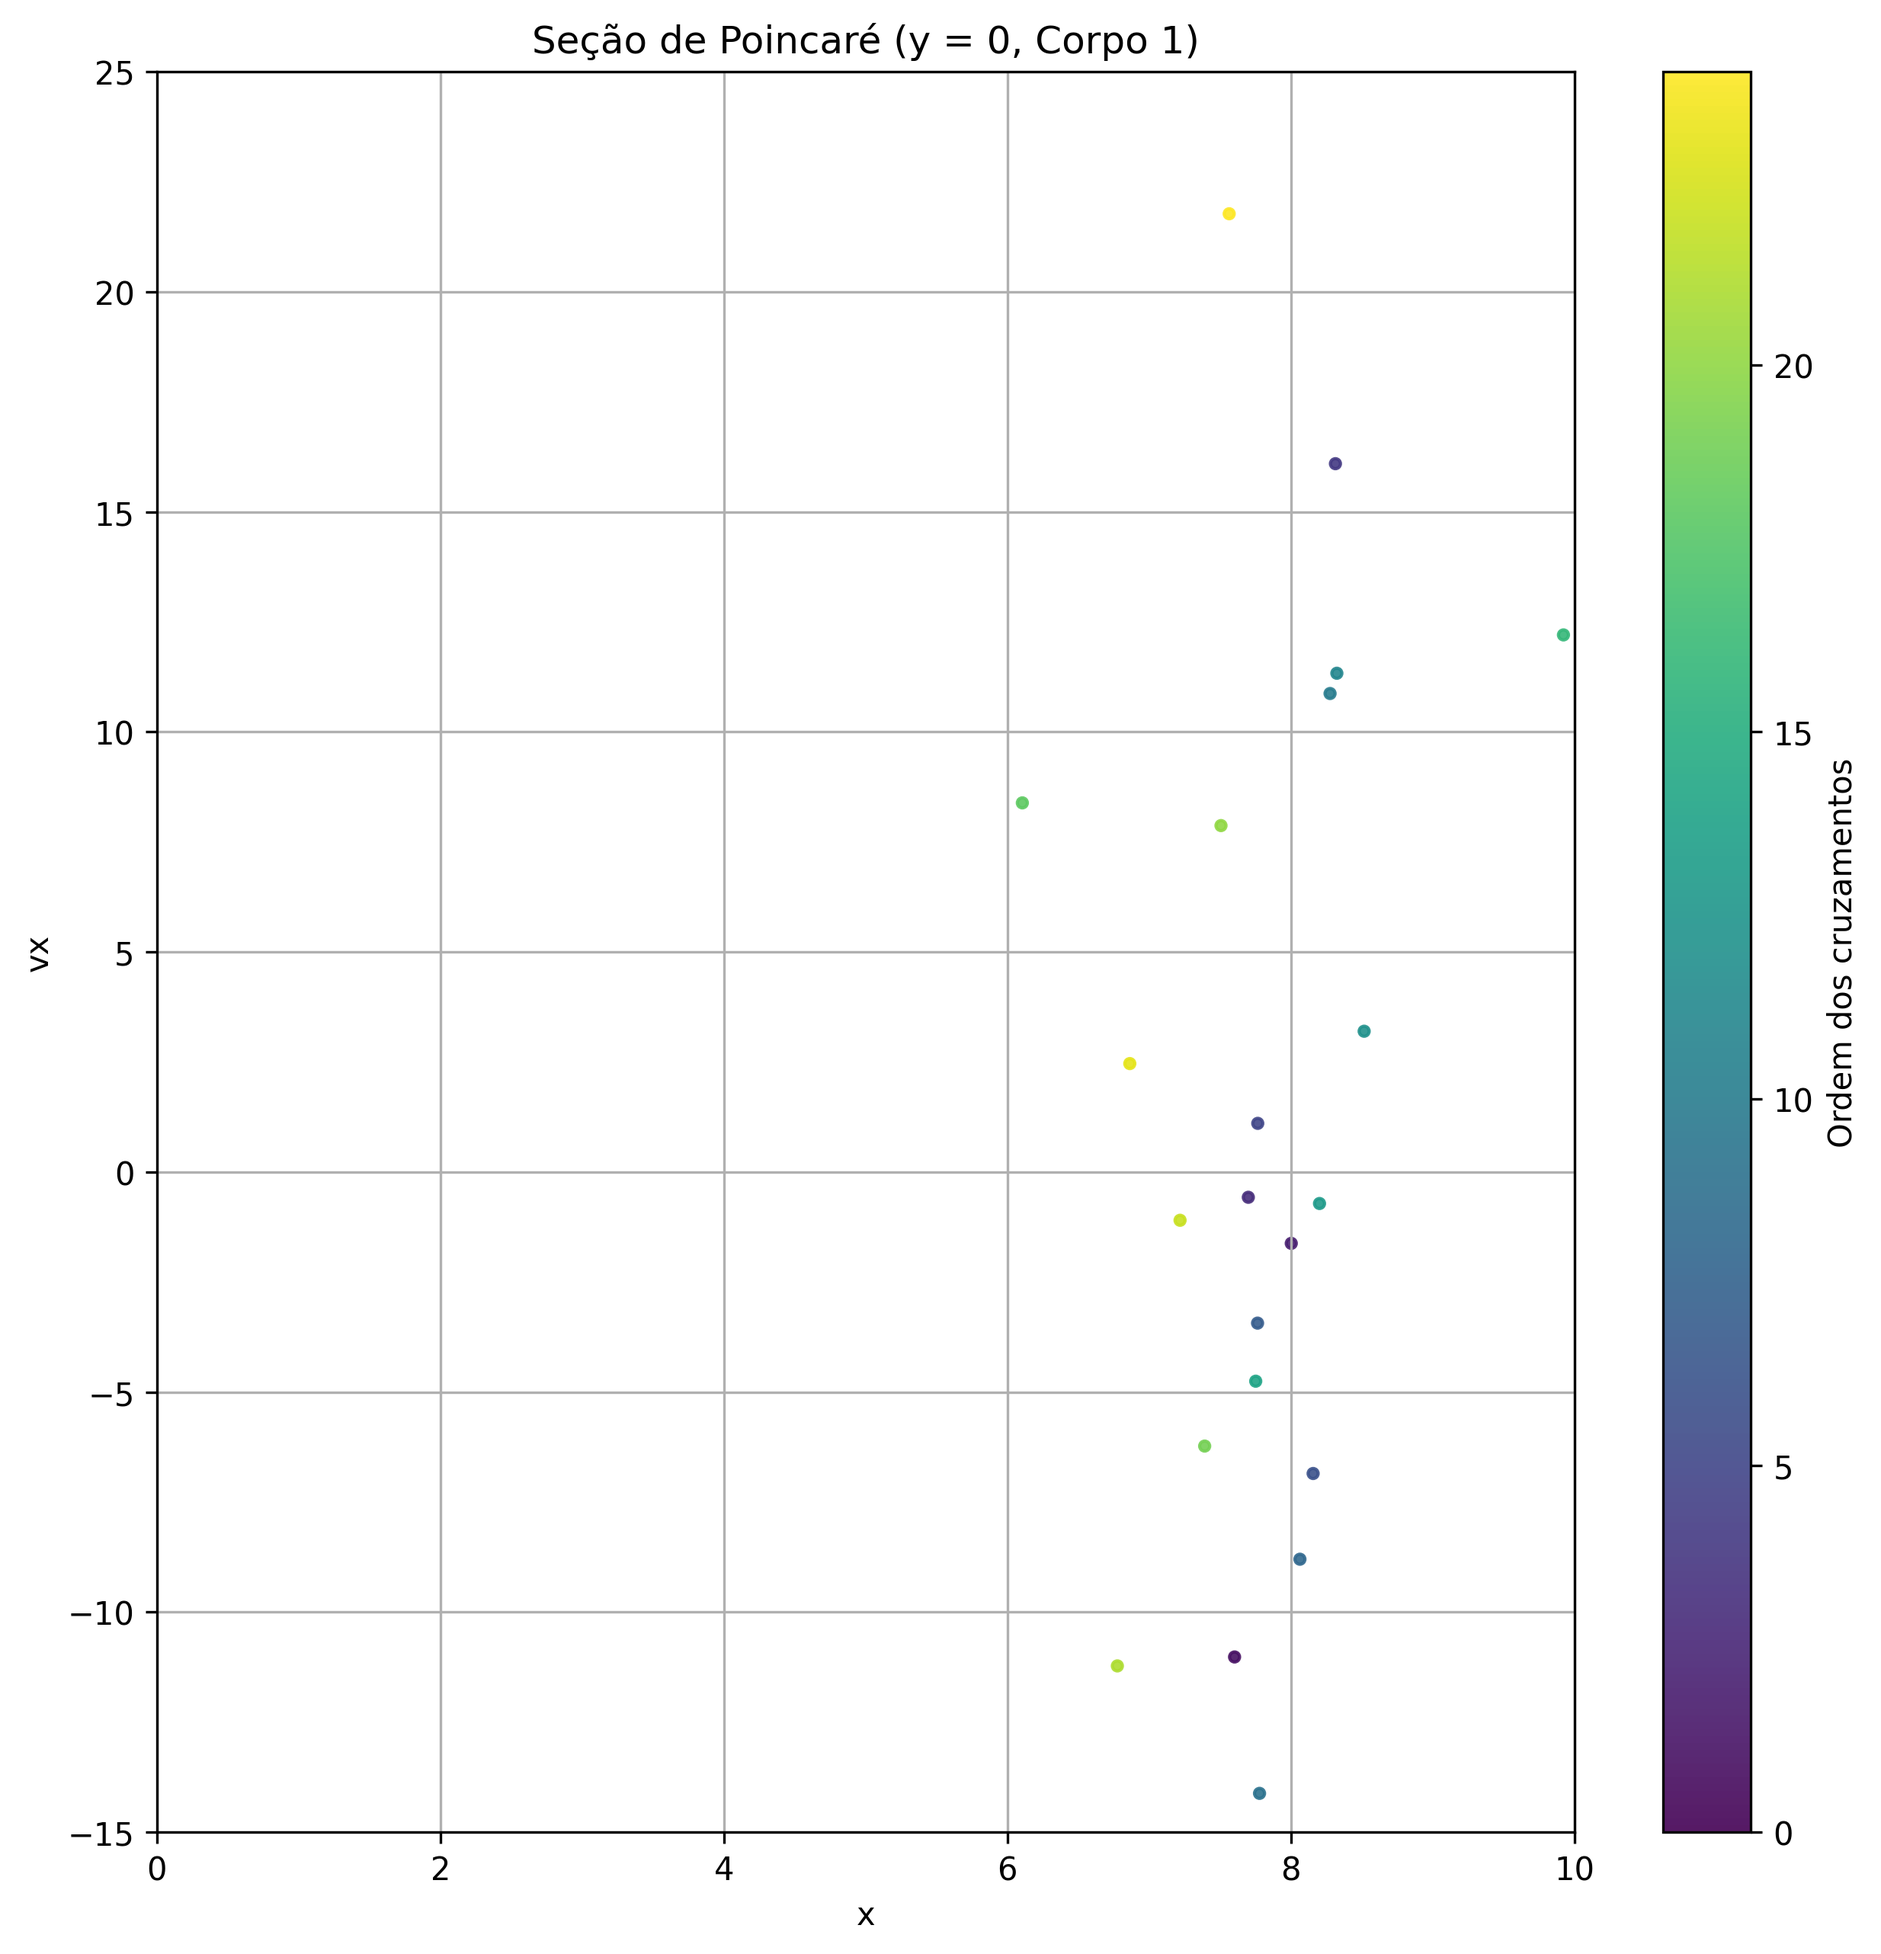
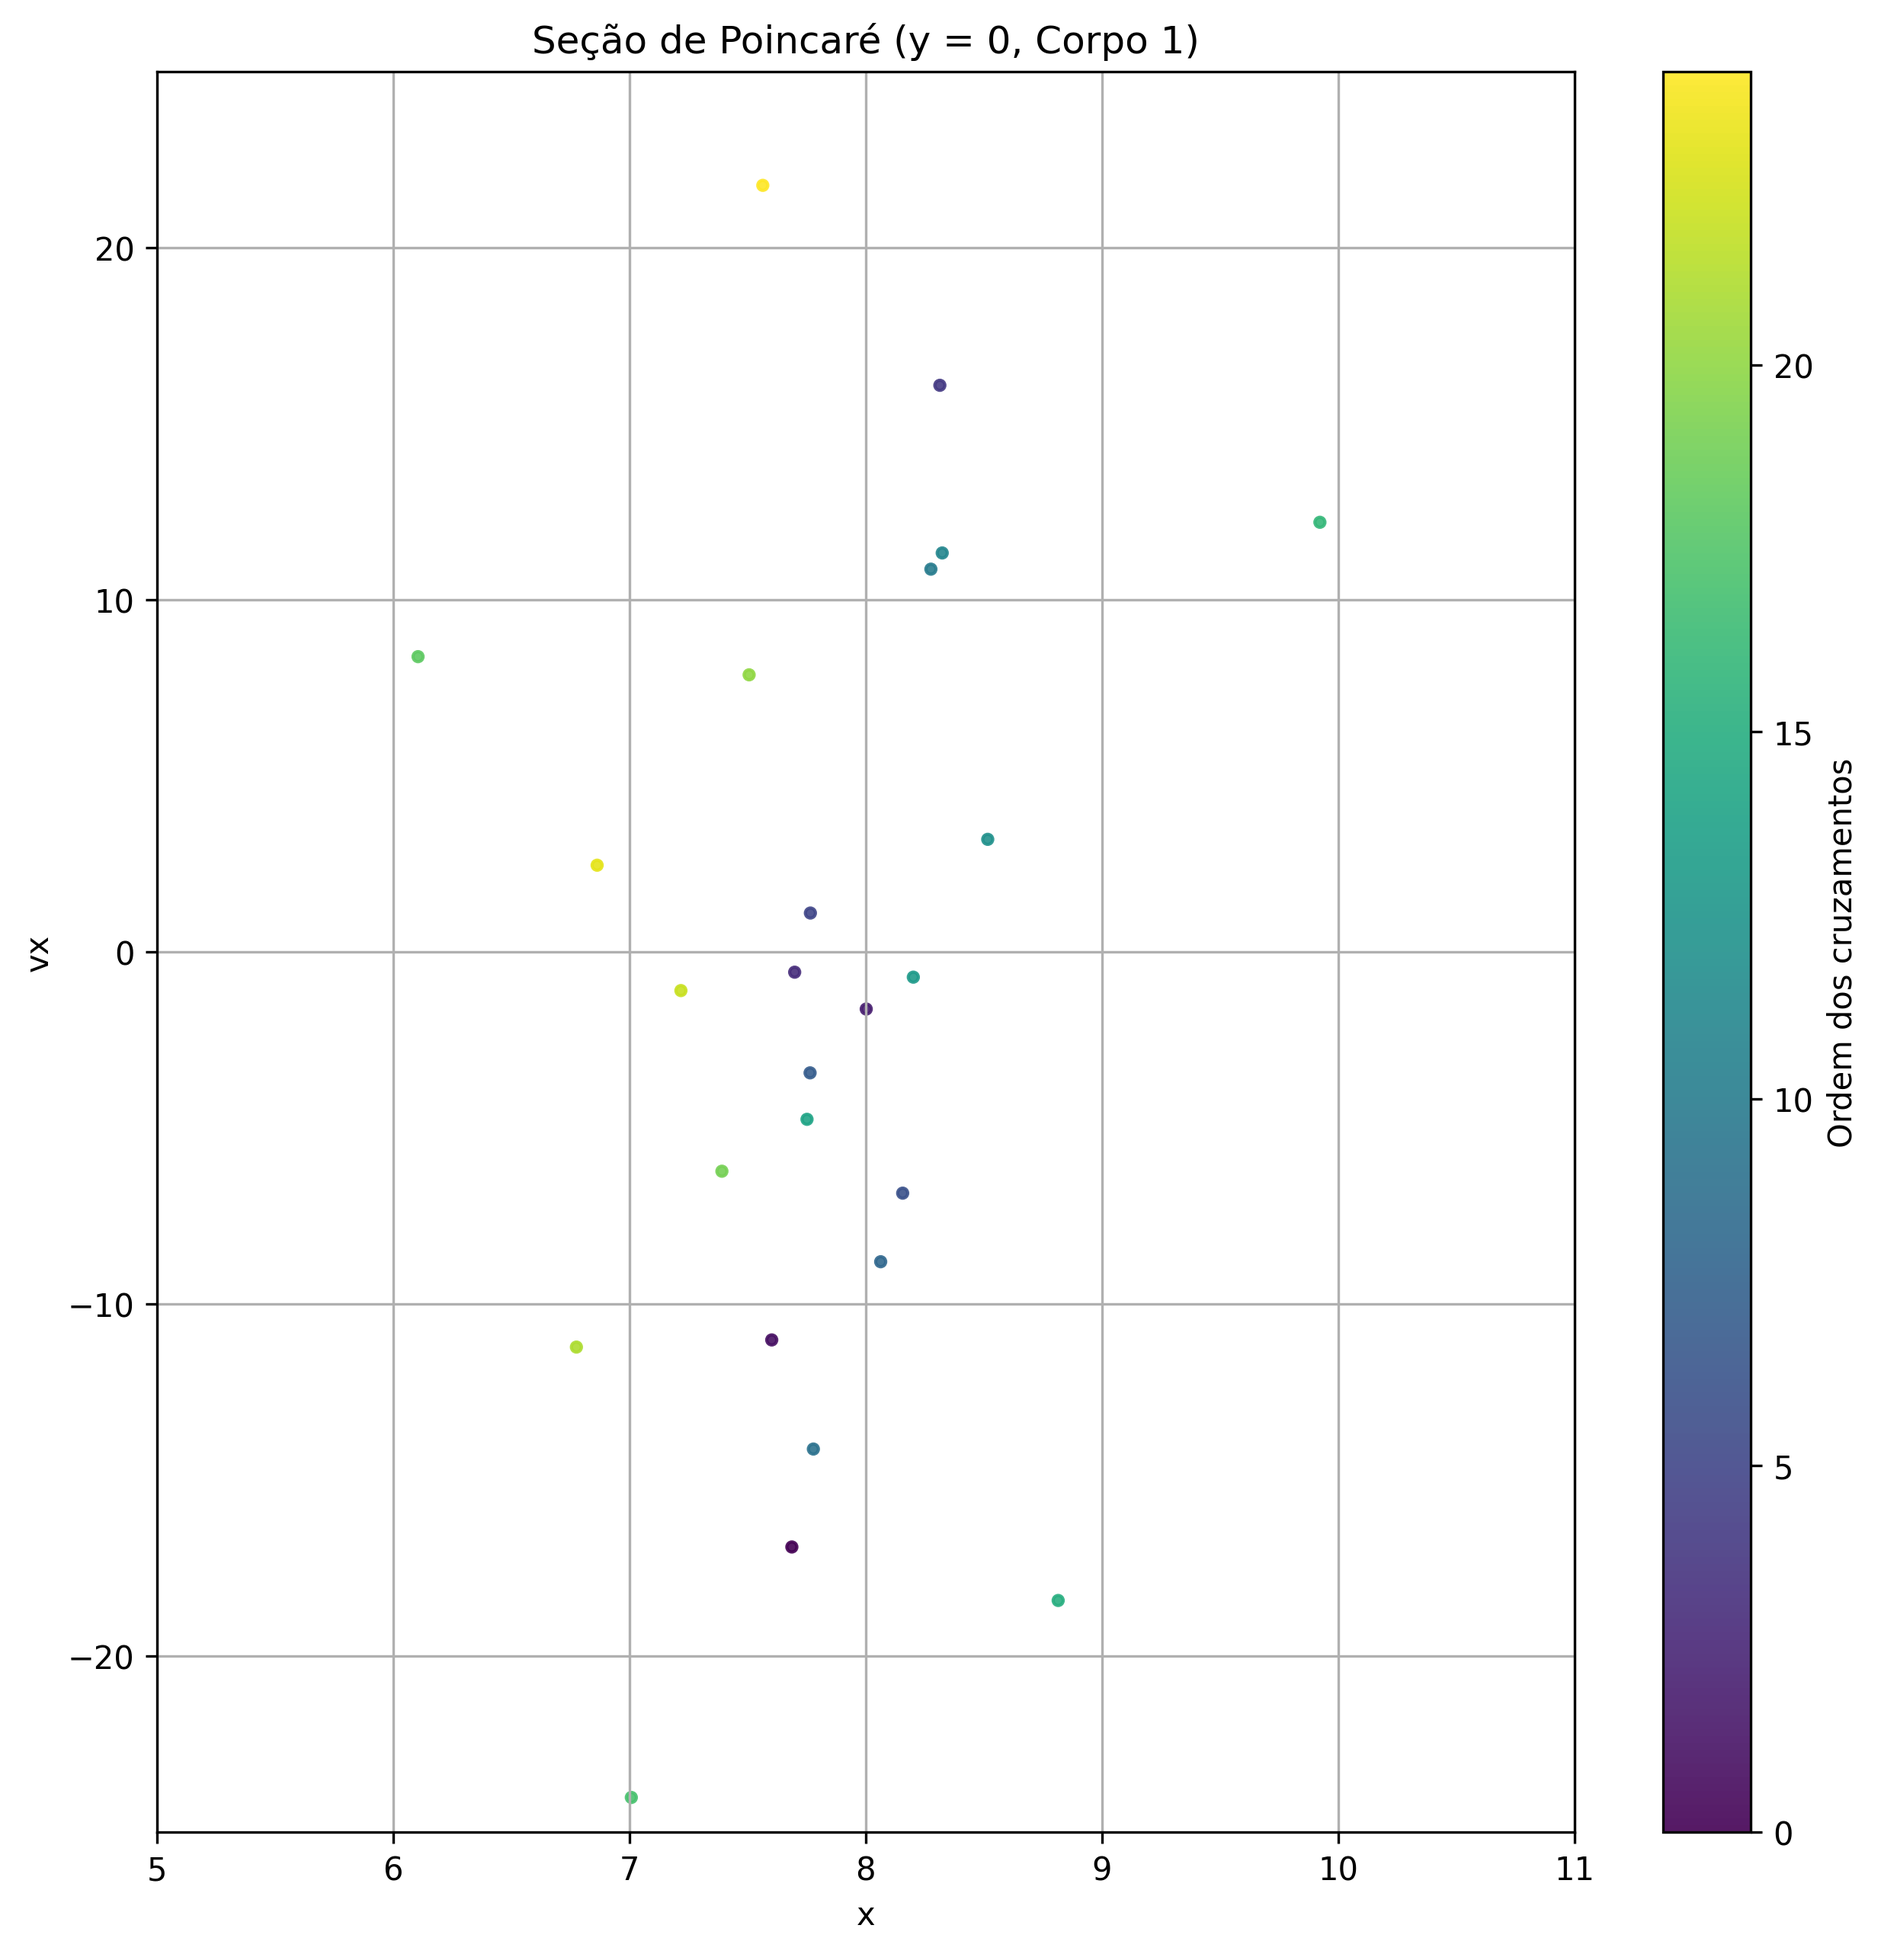
mais poincares

diff --git a/poincare_X.py b/poincare_X.py
@@ -2,12 +2,9 @@ import numpy as np
 import matplotlib.pyplot as plt
 from scipy.integrate import solve_ivp
 
-# Constante gravitacional fictícia (ajustada para evitar números extremamente pequenos)
+# Constante gravitacional fictícia
 G = 6.67
-y_target = -10.0
-
-def on_click(event):
-    print(f"Você clicou em: x = {event.xdata}, y = {event.ydata}")
+x_target = 8  # Valor de x para a análise
 
 # Função que define o sistema de equações diferenciais
 def three_body(t, y, m1, m2, m3):
@@ -38,15 +35,14 @@ y0 = [
     -1.3, -1.0,  # Posição do corpo 1
      1.3, -1.0,  # Posição do corpo 2
      0.0, 1.59,  # Posição do corpo 3
-     1.3, 1.3,  # Velocidade do corpo 1
-    -1.5, -1.7, # Velocidade do corpo 2
-     1.6, -1.3    # Velocidade do corpo 3
+     1.3, 1.3,   # Velocidade do corpo 1
+    -1.5, -1.7,  # Velocidade do corpo 2
+     1.6, -1.3   # Velocidade do corpo 3
 ]
 
-
 # Intervalo de tempo e pontos de avaliação
-t_span = (0, 50)  # Por exemplo, aumente de 20 para 100 ou mais.
-t_eval = np.linspace(*t_span, 3000)  # Mais pontos para análise precisa.
+t_span = (0, 50)
+t_eval = np.linspace(*t_span, 3000)
 
 # Resolver o sistema
 sol = solve_ivp(three_body, t_span, y0, args=(m1, m2, m3), t_eval=t_eval, rtol=1e-9, atol=1e-9)
@@ -54,31 +50,32 @@ sol = solve_ivp(three_body, t_span, y0, args=(m1, m2, m3), t_eval=t_eval, rtol=1
 # Extrair dados
 r1, v1 = sol.y[:2], sol.y[6:8]
 
-# Identificar cruzamentos com o plano y=0
+# Identificar cruzamentos com o plano x=x_target
 crossings = []
-tolerance = 0.05  # Tolerância em torno de y_target
+tolerance = 0.05  # Tolerância em torno de x_target
 
 for i in range(1, len(t_eval)):
-    # Verificar se y cruza y_target com tolerância
-    if (r1[1, i-1] - y_target) * (r1[1, i] - y_target) < 0:
+    # Verificar se x cruza x_target com tolerância
+    if (r1[0, i-1] - x_target) * (r1[0, i] - x_target) < 0:
         # Interpolação linear para encontrar o cruzamento
-        x_cross = r1[0, i-1] + (r1[0, i] - r1[0, i-1]) * (y_target - r1[1, i-1]) / (r1[1, i] - r1[1, i-1])
-        vx_cross = v1[0, i-1] + (v1[0, i] - v1[0, i-1]) * (y_target - r1[1, i-1]) / (r1[1, i] - r1[1, i-1])
-        crossings.append((x_cross, vx_cross))
+        y_cross = r1[1, i-1] + (r1[1, i] - r1[1, i-1]) * (x_target - r1[0, i-1]) / (r1[0, i] - r1[0, i-1])
+        vy_cross = v1[1, i-1] + (v1[1, i] - v1[1, i-1]) * (x_target - r1[0, i-1]) / (r1[0, i] - r1[0, i-1])
+        crossings.append((y_cross, vy_cross))
 
 # Separar as coordenadas dos cruzamentos
-x_cross, vx_cross = zip(*crossings)
+y_cross, vy_cross = zip(*crossings)
 
 # Plotar a seção de Poincaré
 plt.figure(figsize=(10, 10))
-scatter = plt.scatter(x_cross, vx_cross, c=range(len(x_cross)), cmap='viridis', s=10, alpha=0.9)
+scatter = plt.scatter(y_cross, vy_cross, c=range(len(y_cross)), cmap='viridis', s=10, alpha=0.9)
 plt.colorbar(scatter, label='Ordem dos cruzamentos')
-plt.title("Seção de Poincaré (y = 0, Corpo 1)")
-plt.xlabel("x")
-plt.ylabel("vx")
-plt.xlim(0, 10) 
-plt.ylim(-15, 25)
+plt.title("Seção de Poincaré (x = {:.1f}, Corpo 1)".format(x_target))
+
+plt.xlabel("y")
+plt.ylabel("vy")
+plt.xlim(-15, -5)
+plt.ylim(-30, 30)
 plt.grid(True)
 
-plt.savefig("poincare_section_y_target-10.png", dpi=300, bbox_inches='tight')
+plt.savefig("poincare_section_x_target+8.png", dpi=300, bbox_inches='tight')
 plt.show()

diff --git a/poincare_y.py b/poincare_y.py
@@ -1,0 +1,85 @@
+import numpy as np
+import matplotlib.pyplot as plt
+from scipy.integrate import solve_ivp
+
+# Constante gravitacional fictícia (ajustada para evitar números extremamente pequenos)
+G = 6.67
+y_target = -10.0
+
+def on_click(event):
+    print(f"Você clicou em: x = {event.xdata}, y = {event.ydata}")
+
+# Função que define o sistema de equações diferenciais
+def three_body(t, y, m1, m2, m3):
+    r1 = y[:2]
+    r2 = y[2:4]
+    r3 = y[4:6]
+    v1 = y[6:8]
+    v2 = y[8:10]
+    v3 = y[10:12]
+
+    # Distâncias entre os corpos
+    r12 = np.linalg.norm(r1 - r2)
+    r13 = np.linalg.norm(r1 - r3)
+    r23 = np.linalg.norm(r2 - r3)
+
+    # Acelerações devido à gravidade
+    a1 = -G * m2 * (r1 - r2) / r12**3 - G * m3 * (r1 - r3) / r13**3
+    a2 = -G * m1 * (r2 - r1) / r12**3 - G * m3 * (r2 - r3) / r23**3
+    a3 = -G * m1 * (r3 - r1) / r13**3 - G * m2 * (r3 - r2) / r23**3
+
+    return np.concatenate((v1, v2, v3, a1, a2, a3))
+
+# Parâmetros dos corpos (massas fictícias)
+m1, m2, m3 = 130, 130, 130
+
+# Condições iniciais
+y0 = [
+    -1.3, -1.0,  # Posição do corpo 1
+     1.3, -1.0,  # Posição do corpo 2
+     0.0, 1.59,  # Posição do corpo 3
+     1.3, 1.3,  # Velocidade do corpo 1
+    -1.5, -1.7, # Velocidade do corpo 2
+     1.6, -1.3    # Velocidade do corpo 3
+]
+
+
+# Intervalo de tempo e pontos de avaliação
+t_span = (0, 50)  # Por exemplo, aumente de 20 para 100 ou mais.
+t_eval = np.linspace(*t_span, 3000)  # Mais pontos para análise precisa.
+
+# Resolver o sistema
+sol = solve_ivp(three_body, t_span, y0, args=(m1, m2, m3), t_eval=t_eval, rtol=1e-9, atol=1e-9)
+
+# Extrair dados
+r1, v1 = sol.y[:2], sol.y[6:8]
+
+# Identificar cruzamentos com o plano y=0
+crossings = []
+tolerance = 0.05  # Tolerância em torno de y_target
+
+for i in range(1, len(t_eval)):
+    # Verificar se y cruza y_target com tolerância
+    if (r1[1, i-1] - y_target) * (r1[1, i] - y_target) < 0:
+        # Interpolação linear para encontrar o cruzamento
+        x_cross = r1[0, i-1] + (r1[0, i] - r1[0, i-1]) * (y_target - r1[1, i-1]) / (r1[1, i] - r1[1, i-1])
+        vx_cross = v1[0, i-1] + (v1[0, i] - v1[0, i-1]) * (y_target - r1[1, i-1]) / (r1[1, i] - r1[1, i-1])
+        crossings.append((x_cross, vx_cross))
+
+# Separar as coordenadas dos cruzamentos
+x_cross, vx_cross = zip(*crossings)
+
+# Plotar a seção de Poincaré
+plt.figure(figsize=(10, 10))
+scatter = plt.scatter(x_cross, vx_cross, c=range(len(x_cross)), cmap='viridis', s=10, alpha=0.9)
+plt.colorbar(scatter, label='Ordem dos cruzamentos')
+plt.title("Seção de Poincaré (y = 0, Corpo 1)")
+
+plt.xlabel("x")
+plt.ylabel("vx")
+plt.xlim(5, 11) 
+plt.ylim(-25, 25)
+plt.grid(True)
+
+plt.savefig("poincare_section_y_target-10.png", dpi=300, bbox_inches='tight')
+plt.show()

diff --git a/poincare_Vx.py b/poincare_Vx.py
@@ -1,0 +1,64 @@
+# Constantes do problema
+import numpy as np
+import matplotlib.pyplot as plt
+from scipy.integrate import solve_ivp
+
+G = 6.67  # Constante gravitacional fictícia
+
+def three_body(t, y, m1, m2, m3):
+    r1 = y[:2]
+    r2 = y[2:4]
+    r3 = y[4:6]
+    v1 = y[6:8]
+    v2 = y[8:10]
+    v3 = y[10:12]
+
+    r12 = np.linalg.norm(r1 - r2)
+    r13 = np.linalg.norm(r1 - r3)
+    r23 = np.linalg.norm(r2 - r3)
+
+    a1 = -G * m2 * (r1 - r2) / r12**3 - G * m3 * (r1 - r3) / r13**3
+    a2 = -G * m1 * (r2 - r1) / r12**3 - G * m3 * (r2 - r3) / r23**3
+    a3 = -G * m1 * (r3 - r1) / r13**3 - G * m2 * (r3 - r2) / r23**3
+
+    return np.concatenate((v1, v2, v3, a1, a2, a3))
+
+# Parâmetros dos corpos
+m1, m2, m3 = 130, 130, 130
+y0 = [
+    -1.3, -1.0, 1.3, -1.0, 0.0, 1.59,
+    1.3, 1.3, -1.5, -1.7, 1.6, -1.3
+]
+t_span = (0, 200)
+t_eval = np.linspace(*t_span, 3000)
+
+# Resolver o sistema
+sol = solve_ivp(three_body, t_span, y0, args=(m1, m2, m3), t_eval=t_eval, rtol=1e-9, atol=1e-9)
+
+r1, v1 = sol.y[:2], sol.y[6:8]  # Posição e velocidade do Corpo 1
+
+# Detectar cruzamentos onde v_x = 0
+crossings_vx = []
+tolerance = 0.05  # Tolerância
+
+for i in range(1, len(t_eval)):
+    if (v1[0, i-1] * v1[0, i]) < 0:  # Detectar cruzamento
+        # Interpolação linear para encontrar cruzamento
+        x_cross = r1[0, i-1] + (r1[0, i] - r1[0, i-1]) * (-v1[0, i-1]) / (v1[0, i] - v1[0, i-1])
+        y_cross = r1[1, i-1] + (r1[1, i] - r1[1, i-1]) * (-v1[0, i-1]) / (v1[0, i] - v1[0, i-1])
+        crossings_vx.append((x_cross, y_cross))
+
+# Separar coordenadas dos cruzamentos
+x_cross_vx, y_cross_vx = zip(*crossings_vx)
+
+# Plotar seção de Poincaré
+plt.figure(figsize=(10, 10))
+scatter = plt.scatter(x_cross_vx, y_cross_vx, c=range(len(x_cross_vx)), cmap='viridis', s=10, alpha=0.9)
+plt.colorbar(scatter, label='Ordem dos cruzamentos')
+plt.title("Seção de Poincaré (v_x = 0, Corpo 1)")
+plt.xlabel("x")
+plt.ylabel("y")
+plt.grid(True)
+
+plt.savefig("poincare_section_vx.png", dpi=300, bbox_inches='tight')
+plt.show()

diff --git a/poincare_Vy.py b/poincare_Vy.py
@@ -1,0 +1,63 @@
+# Constantes do problema
+import numpy as np
+import matplotlib.pyplot as plt
+from scipy.integrate import solve_ivp
+
+G = 6.67  # Constante gravitacional fictícia
+
+def three_body(t, y, m1, m2, m3):
+    r1 = y[:2]
+    r2 = y[2:4]
+    r3 = y[4:6]
+    v1 = y[6:8]
+    v2 = y[8:10]
+    v3 = y[10:12]
+
+    r12 = np.linalg.norm(r1 - r2)
+    r13 = np.linalg.norm(r1 - r3)
+    r23 = np.linalg.norm(r2 - r3)
+
+    a1 = -G * m2 * (r1 - r2) / r12**3 - G * m3 * (r1 - r3) / r13**3
+    a2 = -G * m1 * (r2 - r1) / r12**3 - G * m3 * (r2 - r3) / r23**3
+    a3 = -G * m1 * (r3 - r1) / r13**3 - G * m2 * (r3 - r2) / r23**3
+
+    return np.concatenate((v1, v2, v3, a1, a2, a3))
+
+# Parâmetros dos corpos
+m1, m2, m3 = 130, 130, 130
+y0 = [
+    -1.3, -1.0, 1.3, -1.0, 0.0, 1.59,
+    1.3, 1.3, -1.5, -1.7, 1.6, -1.3
+]
+t_span = (0, 200)
+t_eval = np.linspace(*t_span, 1000)
+
+# Resolver o sistema
+sol = solve_ivp(three_body, t_span, y0, args=(m1, m2, m3), t_eval=t_eval, rtol=1e-9, atol=1e-9)
+
+r1, v1 = sol.y[:2], sol.y[6:8]  # Posição e velocidade do Corpo 1
+
+# Detectar cruzamentos onde v_y = 0
+crossings_vy = []
+
+for i in range(1, len(t_eval)):
+    if (v1[1, i-1] * v1[1, i]) < 0:  # Detectar cruzamento
+        # Interpolação linear para encontrar cruzamento
+        x_cross = r1[0, i-1] + (r1[0, i] - r1[0, i-1]) * (-v1[1, i-1]) / (v1[1, i] - v1[1, i-1])
+        y_cross = r1[1, i-1] + (r1[1, i] - r1[1, i-1]) * (-v1[1, i-1]) / (v1[1, i] - v1[1, i-1])
+        crossings_vy.append((x_cross, y_cross))
+
+# Separar coordenadas dos cruzamentos
+x_cross_vy, y_cross_vy = zip(*crossings_vy)
+
+# Plotar seção de Poincaré
+plt.figure(figsize=(10, 10))
+scatter = plt.scatter(x_cross_vy, y_cross_vy, c=range(len(x_cross_vy)), cmap='viridis', s=10, alpha=0.9)
+plt.colorbar(scatter, label='Ordem dos cruzamentos')
+plt.title("Seção de Poincaré (v_y = 0, Corpo 1)")
+plt.xlabel("x")
+plt.ylabel("y")
+plt.grid(True)
+
+plt.savefig("poincare_section_vy.png", dpi=300, bbox_inches='tight')
+plt.show()

diff --git a/3_body_problem.py b/3_body_problem.py
@@ -4,8 +4,8 @@ from matplotlib.animation import FuncAnimation
 from scipy.integrate import solve_ivp
 
 # Constante gravitacional fictícia (ajustada para evitar números extremamente pequenos)
-G = 1e1
-MAX_ACCELERATION = 10
+G = 6.67
+MAX_ACCELERATION = 100
 
 # Função que define o sistema de equações diferenciais
 def three_body(t, y, m1, m2, m3):
@@ -33,16 +33,16 @@ def three_body(t, y, m1, m2, m3):
     return np.concatenate((v1, v2, v3, a1, a2, a3))
 
 # Parâmetros dos corpos (massas fictícias)
-m1, m2, m3 = 2.0, 2.0, 2.0
+m1, m2, m3 = 20, 20, 20
 
 # Condições iniciais
 y0_base = [
-    -1.5, 0.0,  # Posição do corpo 1
-     1.5, 0.0,  # Posição do corpo 2
-     0.0, 2.59,  # Posição do corpo 3
-     1.4, 1.4,  # Velocidade do corpo 1
+    -1.3, -1.0,  # Posição do corpo 1
+     1.3, -1.0,  # Posição do corpo 2
+     0.0, 1.59,  # Posição do corpo 3
+     1.3, 1.3,  # Velocidade do corpo 1
     -1.5, -1.7, # Velocidade do corpo 2
-     2, -1.6  # Velocidade do corpo 3
+     1.6, -1.3    # Velocidade do corpo 3
 ]
 
 # Intervalo de tempo e pontos de avaliação
@@ -92,15 +92,15 @@ ax.set_ylabel("y")
 ax.legend(loc='upper right', fontsize='small')
 
 # Salvar o gráfico como imagem
-plt.savefig("three_body_routes.png")
+plt.savefig("three_body_routes3.png")
 
 # Exibir o gráfico
 plt.show()
 
 # Criar o gráfico base para a animação
 fig, ax = plt.subplots(figsize=(8, 8))
-ax.set_xlim(-6, 6)
-ax.set_ylim(-6, 6)
+ax.set_xlim(-16, 16)
+ax.set_ylim(-16, 16)
 ax.set_title("Three-Body Problem - Trajetórias")
 ax.set_xlabel("x")
 ax.set_ylabel("y")
@@ -146,7 +146,7 @@ def update(frame):
 ani = FuncAnimation(fig, update, frames=len(t_eval), init_func=init, interval=20, blit=True)
 
 # Salvar a animação como vídeo. Substitua "ffmpeg" por "pillow" se não tiver ffmpeg instalado
-ani.save("three_body_simulation.gif", writer="pillow")
+ani.save("three_body_simulation3.gif", writer="pillow")
 
 # Exibir o gráfico para validação
 plt.show()
